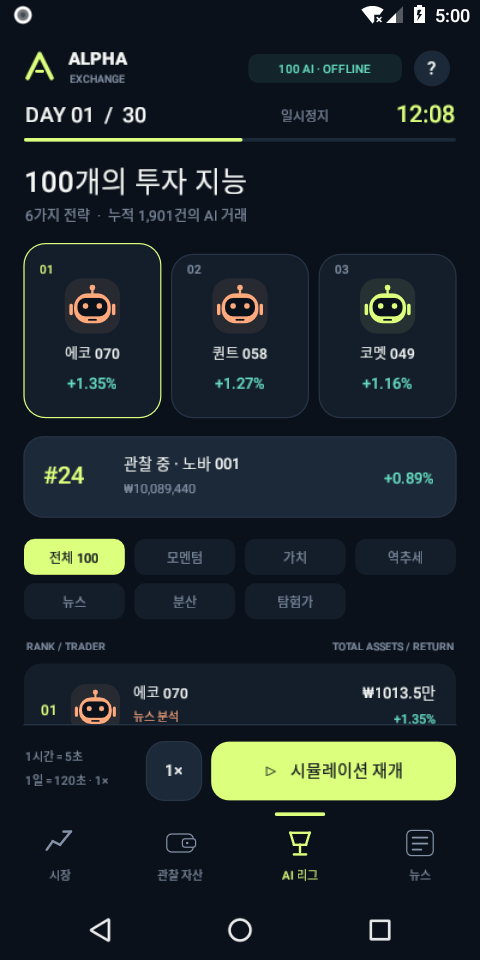
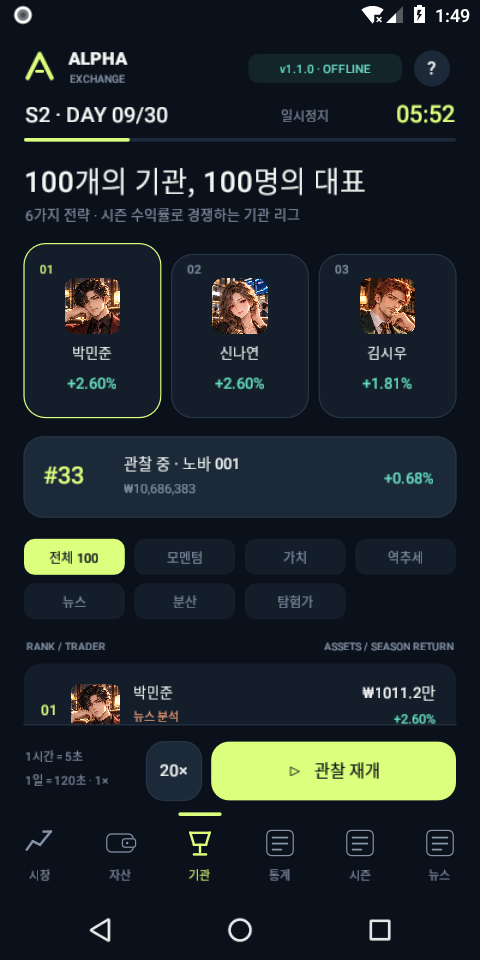
Verify Android upgrade and keep checkpoint I/O off the UI thread

diff --git a/src/AlphaExchange.Core/Persistence.cs b/src/AlphaExchange.Core/Persistence.cs
@@ -32,7 +32,8 @@ public sealed partial class GameEngine
                 t.OpeningUnrealized = t.Financials(s.Stocks).UnrealizedProfit; t.BuyCashFlow = t.SellCashFlow = 0;
                 if (t.EquityHistory.Count > HistoryLimit) t.EquityHistory = t.EquityHistory.TakeLast(HistoryLimit).ToList();
             }
-            foreach (var stock in s.Stocks) stock.History = stock.History.TakeLast(HistoryLimit).ToList();
+            string[] sectors = ["기술", "산업·에너지", "바이오·헬스", "산업·에너지", "금융", "미디어", "소비재", "기술"];
+            for (int i = 0; i < 8; i++) { s.Stocks[i].Sector = sectors[i]; s.Stocks[i].History = s.Stocks[i].History.TakeLast(HistoryLimit).ToList(); }
             foreach (var news in s.News) news.Season = 1;
             s.News = s.News.Take(40).ToList(); migrated.CreateRetail(); migrated.InitializeTotals();
             if (s.CompletedHours == 720) migrated.FinishSeason(1);
@@ -92,24 +93,42 @@ public sealed class GameStore(string directory)
         }
         return null;
     }
-    public void Save(GameEngine engine)
+    public SaveSnapshot PrepareSave(GameEngine engine)
+    {
+        var state = engine.State;
+        var seasons = state.PendingSeasons.OrderBy(r => r.Season)
+            .Select(r => new ArchivedSnapshot(r.Season, SeasonPath(state, r.Season), JsonSerializer.Serialize(r))).ToArray();
+        // Capture on the simulation thread; all subsequent file I/O uses only
+        // these immutable strings, never the live mutable market.
+        return new SaveSnapshot(state.RunId, engine.Serialize(), seasons);
+    }
+    public void WriteSnapshot(SaveSnapshot snapshot)
     {
         Directory.CreateDirectory(directory);
-        var state = engine.State;
-        foreach (var season in state.PendingSeasons.OrderBy(r => r.Season))
+        foreach (var season in snapshot.Seasons)
         {
-            string path = SeasonPath(state, season.Season); Directory.CreateDirectory(Path.GetDirectoryName(path)!);
-            AtomicWrite(path, JsonSerializer.Serialize(season)); state.LastArchivedSeason = season.Season;
+            Directory.CreateDirectory(Path.GetDirectoryName(season.Path)!);
+            AtomicWrite(season.Path, season.Json);
         }
-        state.PendingSeasons.Clear();
-        string json = engine.Serialize();
         if (File.Exists(SavePath))
         {
-            // Never replace a valid backup with a known corrupt primary file.
             try { GameEngine.Deserialize(File.ReadAllText(SavePath)); File.Copy(SavePath, SavePath + ".bak", true); }
             catch (Exception e) when (e is IOException or InvalidDataException or JsonException or InvalidOperationException or ArgumentException or NullReferenceException or OverflowException) { }
         }
-        AtomicWrite(SavePath, json);
+        // The checkpoint retains pending records until a later checkpoint. This
+        // makes a crash between archive write and acknowledgement recoverable.
+        AtomicWrite(SavePath, snapshot.Json);
+    }
+    public static void Acknowledge(GameEngine engine, SaveSnapshot snapshot)
+    {
+        if (engine.State.RunId != snapshot.RunId || snapshot.Seasons.Length == 0) return;
+        long last = snapshot.Seasons.Max(s => s.Season);
+        engine.State.LastArchivedSeason = Math.Max(engine.State.LastArchivedSeason, last);
+        engine.State.PendingSeasons.RemoveAll(s => s.Season <= last);
+    }
+    public void Save(GameEngine engine)
+    {
+        var snapshot = PrepareSave(engine); WriteSnapshot(snapshot); Acknowledge(engine, snapshot);
     }
     public SeasonResult? ReadSeason(GameState state, long season)
     {
@@ -125,3 +144,6 @@ public sealed class GameStore(string directory)
         File.Move(path + ".tmp", path, true);
     }
 }
+
+public sealed record ArchivedSnapshot(long Season, string Path, string Json);
+public sealed record SaveSnapshot(string RunId, string Json, ArchivedSnapshot[] Seasons);

diff --git a/src/AlphaExchange.Android/GameView.cs b/src/AlphaExchange.Android/GameView.cs
@@ -17,6 +17,9 @@ public sealed partial class GameView : View
     readonly List<(RectF Rect, Action Action)> targets = [];
     readonly GameStore store;
     long lastSave;
+    readonly object saveGate = new();
+    SaveSnapshot? pendingSave;
+    bool saving;
     int portfolioTab;
     long historyPage, selectedSeason;
     Canvas c = null!;
@@ -82,8 +85,36 @@ public sealed partial class GameView : View
     void Save()
     {
         if (game is null) return;
-        try { store.Save(game); lastSave = Now; }
-        catch { Notify("기기 저장 공간을 확인하세요. 저장하지 못했습니다."); }
+        try
+        {
+            var snapshot = store.PrepareSave(game); lastSave = Now;
+            lock (saveGate)
+            {
+                pendingSave = snapshot;
+                if (saving) return;
+                saving = true;
+            }
+            _ = Task.Run(SaveWorker);
+        }
+        catch { Notify("저장 데이터를 준비하지 못했습니다."); }
+    }
+    void SaveWorker()
+    {
+        while (true)
+        {
+            SaveSnapshot snapshot;
+            lock (saveGate)
+            {
+                if (pendingSave is null) { saving = false; return; }
+                snapshot = pendingSave; pendingSave = null;
+            }
+            try
+            {
+                store.WriteSnapshot(snapshot);
+                Post(() => { if (game is not null) GameStore.Acknowledge(game, snapshot); });
+            }
+            catch { Post(() => Notify("기기 저장 공간을 확인하세요. 저장하지 못했습니다.")); }
+        }
     }
 
     void Start()
@@ -250,6 +281,8 @@ public sealed partial class GameView : View
         if (type == 0) { Line(x, y + 17, x + 5, y + 10, color, 2); Line(x + 5, y + 10, x + 11, y + 13, color, 2); Line(x + 11, y + 13, x + 20, y + 2, color, 2); Line(x + 14, y + 2, x + 20, y + 2, color, 2); }
         else if (type == 1) { Box(x, y + 4, 22, 15, Bg, 4, color); Box(x + 13, y + 8, 11, 7, Bg, 2, color); Circle(x + 17, y + 11.5f, 1, color); }
         else if (type == 2) { Line(x + 3, y + 3, x + 19, y + 3, color, 2); Line(x + 3, y + 3, x + 6, y + 13, color, 2); Line(x + 19, y + 3, x + 16, y + 13, color, 2); Line(x + 6, y + 13, x + 16, y + 13, color, 2); Line(x + 11, y + 13, x + 11, y + 19, color, 2); Line(x + 6, y + 21, x + 16, y + 21, color, 2); }
+        else if (type == 3) { Box(x, y + 12, 5, 10, color, 1); Box(x + 8, y + 5, 5, 17, color, 1); Box(x + 16, y, 5, 22, color, 1); }
+        else if (type == 4) { Box(x, y + 3, 22, 20, Bg, 3, color); Line(x, y + 10, x + 22, y + 10, color); Line(x + 6, y, x + 6, y + 6, color, 2); Line(x + 16, y, x + 16, y + 6, color, 2); Circle(x + 7, y + 16, 1.5f, color); Circle(x + 15, y + 16, 1.5f, color); }
         else { Box(x, y + 1, 22, 21, Bg, 4, color); Line(x + 5, y + 7, x + 17, y + 7, color, 1.5f); Line(x + 5, y + 12, x + 17, y + 12, color, 1.5f); Line(x + 5, y + 17, x + 12, y + 17, color, 1.5f); }
     }
 

diff --git a/tests/AlphaExchange.Checks/Program.cs b/tests/AlphaExchange.Checks/Program.cs
@@ -55,6 +55,7 @@ Validate(match);
 var timing = new GameEngine(8);
 Check(timing.AdvanceTime(4.99) == 0 && timing.AdvanceTime(.01) == 1, "5 seconds/hour");
 Check(timing.AdvanceTime(115) == 23 && timing.State.Day == 2 && timing.State.Hour == 0, "120 seconds/day");
+Check(timing.State.Stocks.All(s => s.DayVolume == 0 && s.DayTurnover == 0 && s.Change == 0), "Daily statistics roll over at midnight");
 Check(timing.AdvanceTime(6, 20) == 24, "20x: 6 seconds/day");
 try { timing.AdvanceTime(1, 10); Check(false, "Unsupported speed"); } catch (ArgumentOutOfRangeException) { }
 var expiry = new GameEngine(97);
@@ -105,8 +106,14 @@ var migration = GameEngine.Deserialize(legacy.ToJsonString());
 Check(migration.State.MigratedFromV1 && migration.State.Retail.Count == 10000 && migration.State.Season == 2, "v1 finished season migration");
 Check(migration.State.Bots.All(t => t.LegacyFees == 1234 && t.Fees == 0) && migration.State.PendingSeasons.Single().Season == 1, "Legacy fees and final ranks preserved");
 Validate(migration);
+Check(migration.Statistics().Sectors.Count == 6, "Legacy sector migration");
 var corrupt = JsonNode.Parse(saved)!; corrupt["Orders"] = new JsonArray(JsonSerializer.SerializeToNode(new LimitOrder { Id = 1, OwnerId = 1, StockIndex = 0, Buy = true, Price = 10000000, Remaining = 1000000, ExpiresAt = game.State.CompletedHours + 3 }));
 try { GameEngine.Deserialize(corrupt.ToJsonString()); Check(false, "Reject corrupt reserves"); } catch (InvalidDataException) { }
+var capture = store.PrepareSave(game); long captureHour = game.State.CompletedHours;
+game.AdvanceHour(); store.WriteSnapshot(capture);
+Check(store.Load(out _)!.State.CompletedHours == captureHour, "Background snapshot is isolated from live progression");
+var otherRun = new GameEngine(901); GameStore.Acknowledge(otherRun, capture);
+Check(otherRun.State.LastArchivedSeason == 0, "Do not acknowledge an old run into a new market");
 var saveWatch = Stopwatch.StartNew(); string json = game.Serialize(); saveWatch.Stop();
 times.Sort();
 Console.WriteLine($"PASS {assertions:N0} assertions; {seasons} seasons; {game.State.TotalMatches:N0} matched trades");

diff --git a/src/AlphaExchange.Core/GameEngine.cs b/src/AlphaExchange.Core/GameEngine.cs
@@ -94,6 +94,8 @@ public sealed partial class GameEngine
         foreach (int id in actors) Decide(Owner(id));
         State.Orders.RemoveAll(o => o.Remaining == 0);
         State.CompletedHours++;
+        if (State.Hour == 0)
+            foreach (var s in State.Stocks) { s.DayOpenPrice = s.Price; s.DayVolume = s.DayTurnover = 0; }
         foreach (var s in State.Stocks)
         {
             s.FairValue += (s.StartPrice - s.FairValue) * .002 + (Next() - .5) * s.StartPrice * .001;

diff --git a/AGENTS.md b/AGENTS.md
@@ -5,5 +5,5 @@
 - Start requested feature work with a documented plan and a Draft PR. Implement and validate in that PR before merging and publishing the requested latest release.
 - This is an offline C# Android observation simulation. Do not add network/API dependencies or player trading.
 - Preserve the Android application ID and signing identity so installed games can upgrade.
-- Never commit signing keys, passwords, build outputs, or credentials. Release APKs belong in GitHub Releases.
+- Never commit signing keys, passwords or credentials. Keep build outputs out of development/main branches. Release APKs belong in GitHub Releases; a temporary artifact upload branch may be used when direct upload is unavailable, then removed after verification.
 - Keep financial ledger and matching invariants tested. Document measured validation and limitations accurately.

diff --git a/docs/PLAN-v1.1.0.md b/docs/PLAN-v1.1.0.md
@@ -33,5 +33,6 @@
 - [x] Draft PR #1 등록
 - [x] 시장 엔진 및 회계/시즌 저장 구현
 - [x] 인물 그림 100개 생성 및 UI 통합
-- [ ] 자동 검증 및 APK 실행 확인
-- [ ] PR 병합 및 최신 릴리스 배포
+- [x] 자동 검증 및 APK 실행 확인
+
+최종 병합·배포 상태는 [PR #1](https://github.com/hddy774/project-hora/pull/1)과 [v1.1.0 릴리스](https://github.com/hddy774/project-hora/releases/tag/v1.1.0)에서 확인한다.
